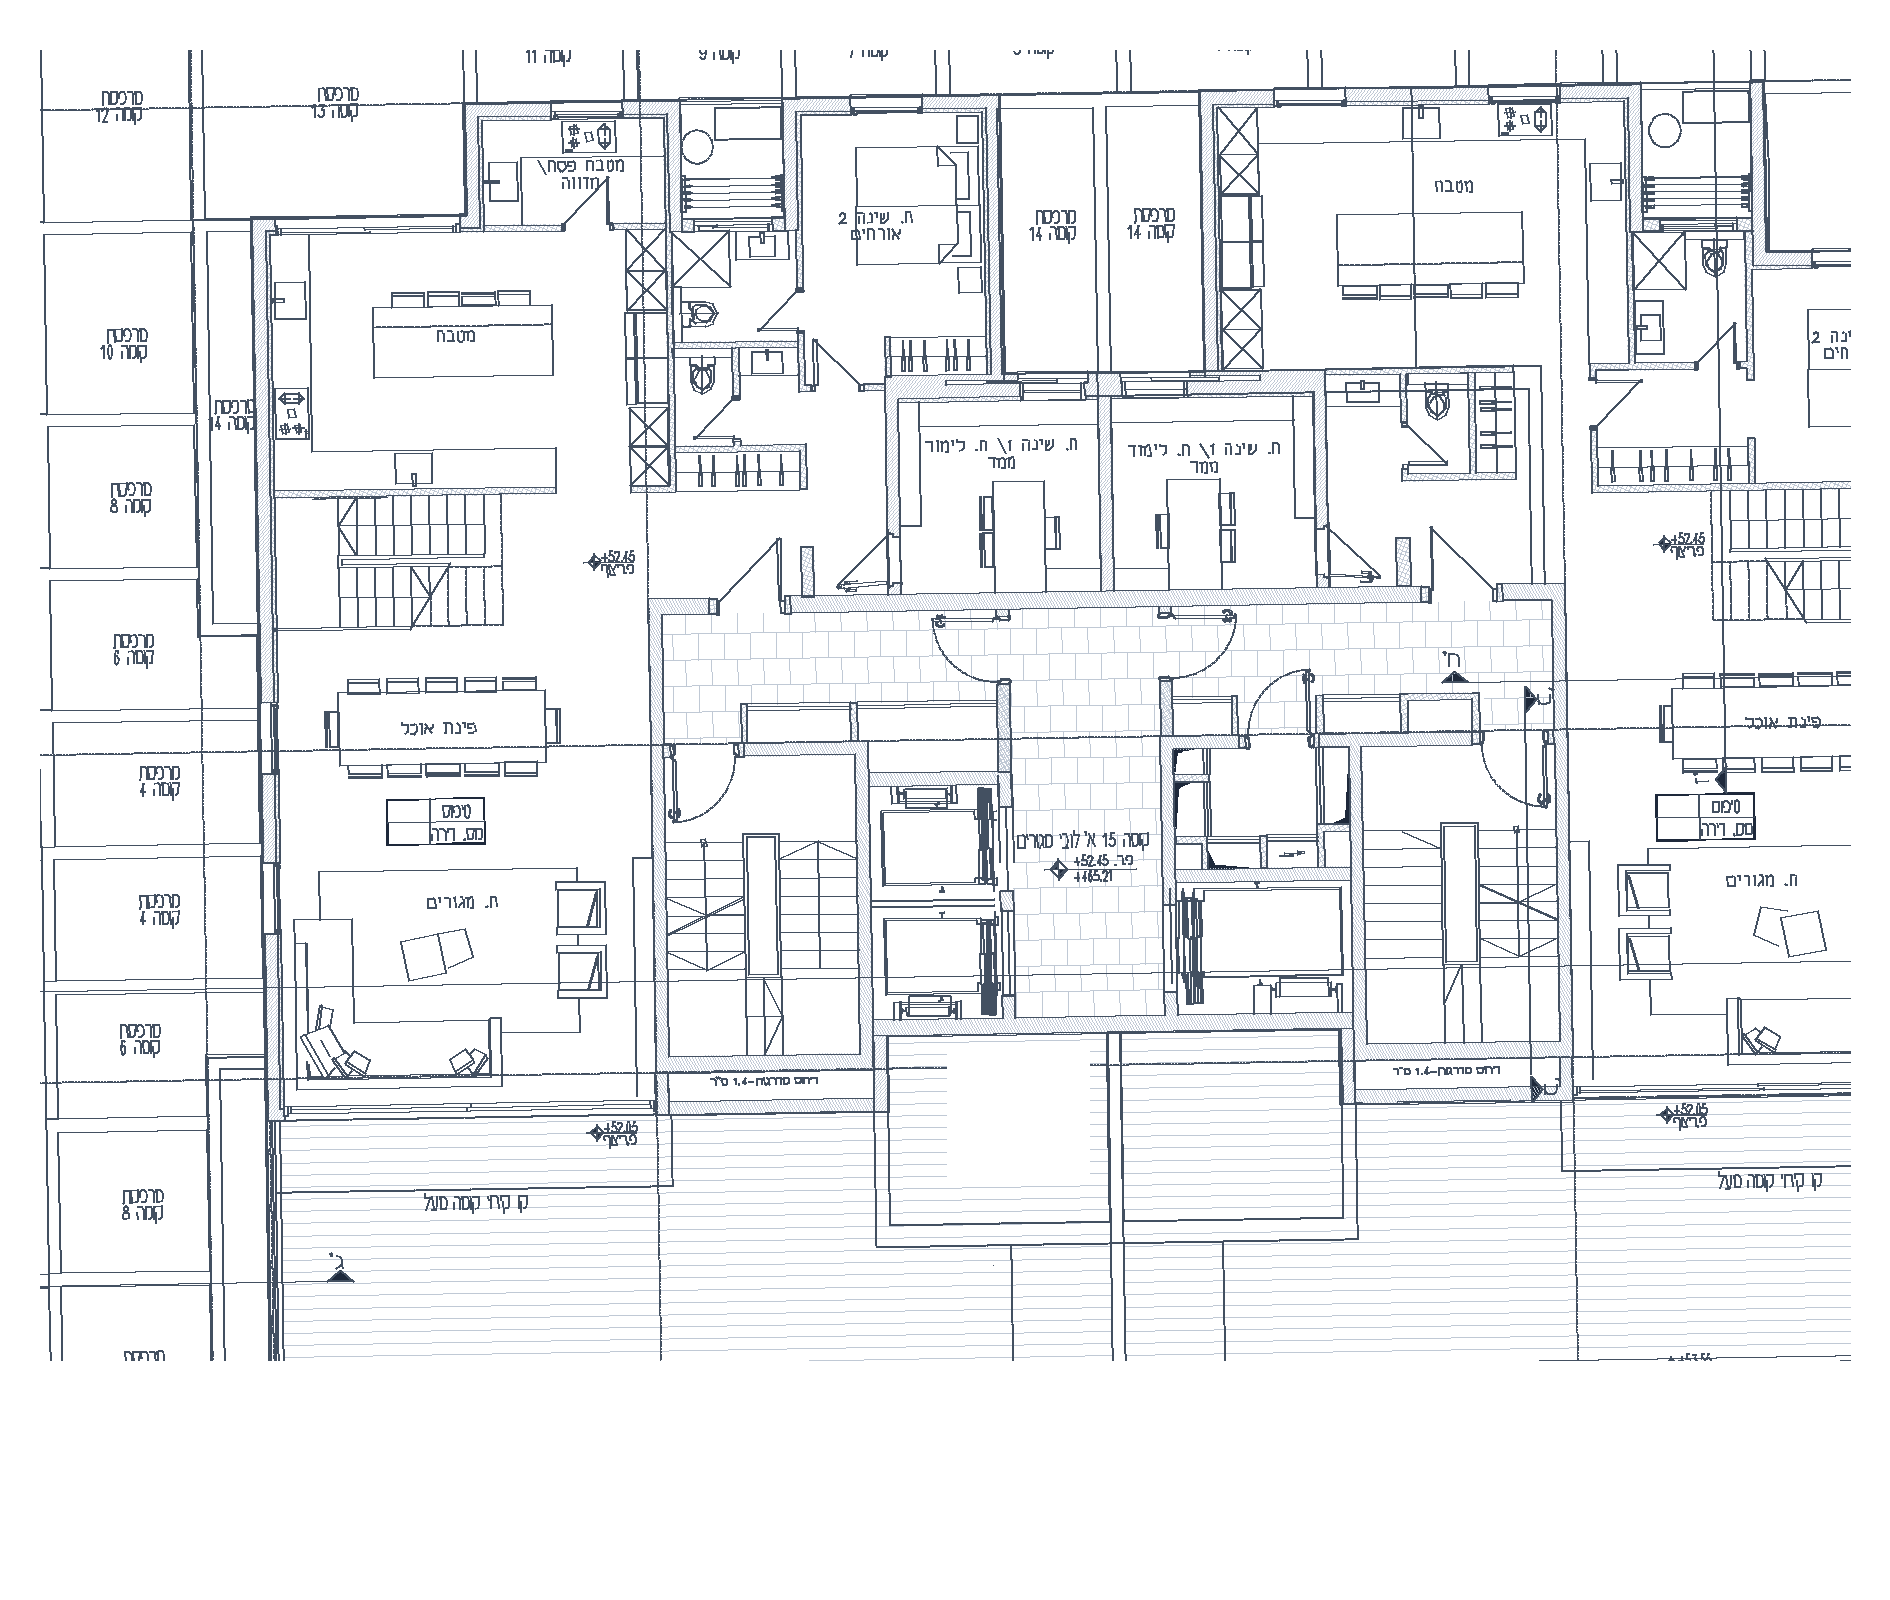
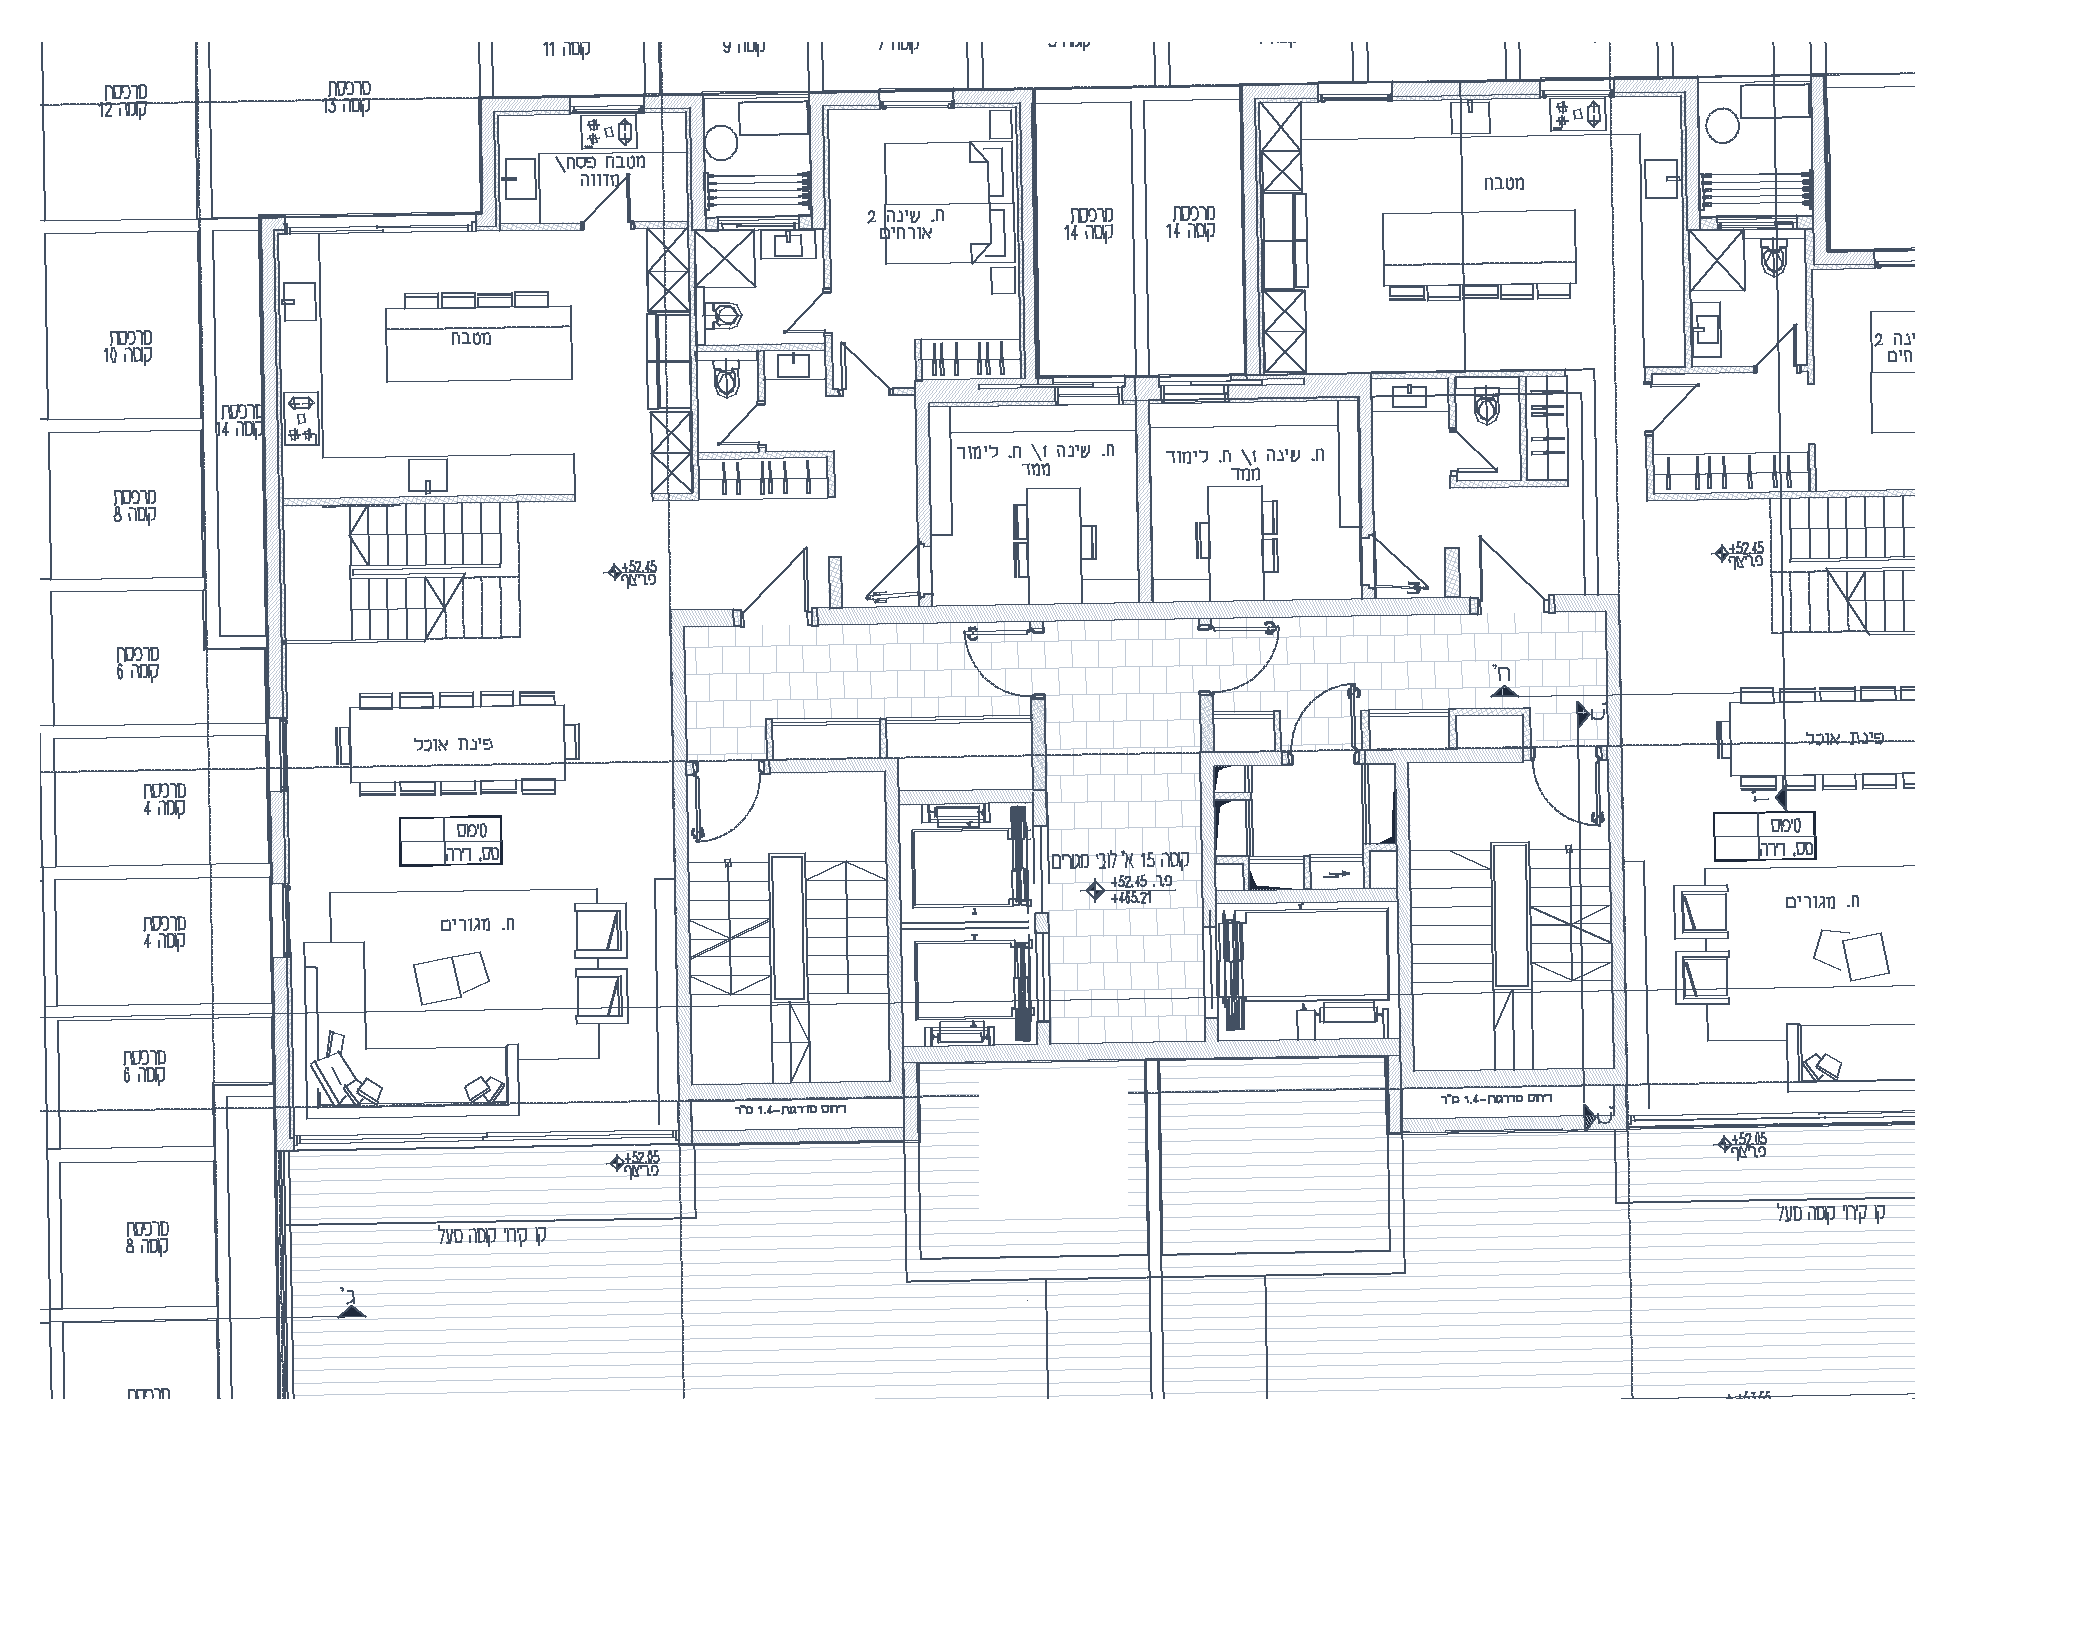
Video 19: penthouse stairs over the stairs below, floor number on the core, tidier page
- Floors 14/15 fitted by the stair and lift shaft onto the typical floor
  (K 1.171 / 1.185), outlines moved with them; drawn on a wider frame.
- Floor number at the stair core's middle on every floor.
- On All the hover card stands whole above the plans.
- The stage-count strip under the filters is gone.
- Picking a building is not a filter: no Clear.
docs/feedback: recording 19's doc; ledger rows 18-19. v14board: 35 checks.

Claude-Session: https://claude.ai/code/session_016jnZPBg7HPrjgM1hVmBpZR

Changed region(s): [[0.0, 0.0312, 0.9677, 0.875], [0.1561, 0.0312, 0.1873, 0.0938], [0.0624, 0.8438, 0.0937, 0.875]]

diff --git a/src/components/building/wolfsonPlan.ts b/src/components/building/wolfsonPlan.ts
@@ -36,20 +36,32 @@ export const SHAPES: Record<ShapeKey, Pt[]> = {
   // vectors are drawn into the plan's units — the stairs land on the typical
   // floor's stairs (1.145 plan units per sheet half-point). Floor 15 is set
   // back: below the core it is terrace.
-  PL14: [[100,45],[553,45],[553,290],[320,290],[320,520],[553,520],[553,640],[505,640],[505,760],[100,760]],
-  PR14: [[553,45],[1005,45],[1005,760],[505,760],[505,640],[553,640],[553,520],[780,520],[780,290],[553,290]],
-  PL15: [[100,45],[553,45],[553,290],[320,290],[320,520],[553,520],[553,700],[100,700]],
-  PR15: [[553,45],[1005,45],[1005,700],[553,700],[553,610],[625,610],[625,545],[553,545],[553,520],[780,520],[780,290],[553,290]],
+  PL14: [[9,32],[472,32],[472,282],[234,282],[234,517],[472,517],[472,640],[423,640],[423,763],[9,763]],
+  PR14: [[472,32],[935,32],[935,763],[423,763],[423,640],[472,640],[472,517],[704,517],[704,282],[472,282]],
+  PL15: [[0,21],[469,21],[469,275],[228,275],[228,513],[469,513],[469,699],[0,699]],
+  PR15: [[469,21],[937,21],[937,699],[469,699],[469,606],[544,606],[544,539],[469,539],[469,513],[704,513],[704,275],[469,275]],
 };
 
 /** The penthouse floors' core, and each penthouse floor's own drawing. */
-export const CORE_PH: [number, number][] = [[320,290],[780,290],[780,520],[320,520]];
+/**
+ * The penthouse floors are fitted by their STAIRS and LIFTS onto the typical
+ * floor's (owner, video 2026-11-03: "this is the staircase … here the layout
+ * of that is different") — one shaft through the building. Their drawings are
+ * drawn on a wider frame (PH_BOX), since the set-back floors stand further out
+ * on one side.
+ */
+export const PH_BOX = { x: -20, y: 0, w: 1045, h: 820 };
+export const CORE_PH14: [number, number][] = [[234,282],[704,282],[704,517],[234,517]];
+export const CORE_PH15: [number, number][] = [[228,275],[704,275],[704,513],[228,513]];
+export const CORE_PH: [number, number][] = CORE_PH14;
+/** The floor number stands in the middle of the stair core, on every floor. */
+export const FLOOR_NO_AT: [number, number] = [551, 444];
 export const PH_DRAWING: Record<string, string> = { PL14: '/building/wolfson-ph14.png', PR14: '/building/wolfson-ph14.png', PL15: '/building/wolfson-ph15.png', PR15: '/building/wolfson-ph15.png' };
 export function isPenthouseShape(k: ShapeKey): boolean { return k.startsWith('P'); }
 
 /** Where an apartment's number sits — inside its biggest room (the living wing). */
 export const LABEL_AT: Record<ShapeKey, Pt> = {
-  A: [178, 215], B: [930, 228], C2: [178, 640], C1: [930, 640], WL: [180, 480], WR: [925, 480], PL14: [235, 640], PR14: [870, 640], PL15: [235, 610], PR15: [870, 620],
+  A: [178, 215], B: [930, 228], C2: [178, 640], C1: [930, 640], WL: [180, 480], WR: [925, 480], PL14: [150, 640], PR14: [800, 640], PL15: [150, 610], PR15: [800, 620],
 };
 
 /** The core: the corridor band, two stairwells and the lifts. */

diff --git a/src/pages/ProjectDiagramPage.tsx b/src/pages/ProjectDiagramPage.tsx
@@ -291,7 +291,8 @@ export function ProjectDiagramPage() {
     setSelectedBuilding('all');
   }
 
-  const hasFilters = activeStageIds.length > 0 || classFilter !== 'all' || !!tipusFilter || searchQuery || selectedBuilding !== 'all';
+  // Picking a building is where you look, not a filter (owner, video 2026-11-03: "when I filter a building … this pops up … unnecessary").
+  const hasFilters = activeStageIds.length > 0 || classFilter !== 'all' || !!tipusFilter || searchQuery;
 
   function exitBulkMode() {
     setBulkMode(false);
@@ -373,10 +374,6 @@ export function ProjectDiagramPage() {
     setToast({ msg, type });
   }
 
-  const stageStats = sortedStages.map(s => ({
-    stage: s,
-    count: apartments.filter(a => a.currentStageId === s.id).length,
-  }));
   // Only real units count — blank placeholder slots are not apartments
   const countable = apartments.filter(isCountableApartment);
   const noStage = countable.filter(a => !a.currentStageId).length;
@@ -662,24 +659,8 @@ export function ProjectDiagramPage() {
 
         </div>
 
-        {/* Stage progress mini bar — wide screens only (below 900 the counts
-            live inside the stage bar); hidden on print */}
-        <div className="hidden diag:flex bg-gray-50 border-b border-gray-200 px-5 py-2 items-center gap-3 overflow-x-auto flex-shrink-0 print:hidden">
-          {stageStats.map(({ stage, count }) => (
-            count > 0 && (
-              <div key={stage.id} className="flex items-center gap-1.5 flex-shrink-0">
-                <span className="w-2.5 h-2.5 rounded-full" style={{ backgroundColor: stage.color }} />
-                <span className="text-xs text-gray-600 font-medium">{count}</span>
-              </div>
-            )
-          ))}
-          {noStage > 0 && (
-            <div className="flex items-center gap-1.5 flex-shrink-0">
-              <span className="w-2.5 h-2.5 rounded-full bg-gray-300" />
-              <span className="text-xs text-gray-500">{noStage}</span>
-            </div>
-          )}
-        </div>
+        {/* The coloured stage-count strip that stood here is gone (owner,
+            video 2026-11-03: "get rid of this whole bar … unnecessary"). */}
 
         {/* Main diagram */}
         <div className="short-scroll-body flex-1 overflow-auto scrollbar-thin bg-gray-100 print:overflow-visible print:bg-white">

diff --git a/src/components/building/BuildingView.tsx b/src/components/building/BuildingView.tsx
@@ -17,7 +17,7 @@ import React, { useCallback, useEffect, useMemo, useRef, useState } from 'react'
 import type { Apartment, Stage } from '../../types';
 import { realName } from '../../data/aptSale';
 import {
-  CARD_CORNER, CORE, CORE_PH, PH_DRAWING, isPenthouseShape, LABEL_AT, LEVEL_FLOORS, STRIP, zoneFor, PLAN_BOX, SHAPES, pathOf, shapesOf, stripFor, type ShapeKey, type LowerLevel,
+  CARD_CORNER, CORE, CORE_PH14, CORE_PH15, PH_BOX, FLOOR_NO_AT, PH_DRAWING, isPenthouseShape, LABEL_AT, LEVEL_FLOORS, STRIP, zoneFor, PLAN_BOX, SHAPES, pathOf, shapesOf, stripFor, type ShapeKey, type LowerLevel,
 } from './wolfsonPlan';
 import './buildingView.css';
 
@@ -113,7 +113,8 @@ function phDrawing(row: FloorRow): string | undefined {
   return undefined;
 }
 function coreOf(row: FloorRow): [number, number][] {
-  return phDrawing(row) ? CORE_PH : CORE.outline;
+  const d = phDrawing(row);
+  return d ? (d.includes('ph15') ? CORE_PH15 : CORE_PH14) : CORE.outline;
 }
 
 /** The floor's own outline: a typical floor is all four flats; the set-back top floor only what its flats cover. */
@@ -404,7 +405,7 @@ export default function BuildingView({ apartments, stages, onOpen, words, initia
                 })}
                 {phDrawing(row) && (
                   <g className="bv-interior" pointerEvents="none">
-                    <image href={phDrawing(row)} x={PLAN_BOX.x} y={PLAN_BOX.y} width={PLAN_BOX.w} height={PLAN_BOX.h} preserveAspectRatio="none" />
+                    <image href={phDrawing(row)} x={PH_BOX.x} y={PH_BOX.y} width={PH_BOX.w} height={PH_BOX.h} preserveAspectRatio="none" />
                   </g>
                 )}
                 {interiorSrc && isTypical(row) && (
@@ -414,7 +415,7 @@ export default function BuildingView({ apartments, stages, onOpen, words, initia
                       clipPath={`url(#bv-clip-${row.floor})`} preserveAspectRatio="none" />
                   </g>
                 )}
-                <text x={555} y={470} className="bv-floor-no">{lab(row.floor)}</text>
+                <text x={FLOOR_NO_AT[0]} y={FLOOR_NO_AT[1]} className="bv-floor-no">{lab(row.floor)}</text>
               </svg>
               )}
             </div>

diff --git a/src/components/building/buildingView.css b/src/components/building/buildingView.css
@@ -120,8 +120,9 @@
 .bv-compact .bv-card { width: 200px; }
 .bv-title { position: absolute; top: 12px; left: 50%; transform: translateX(-50%); z-index: 3;
   font-size: 15px; font-weight: 700; color: #1e3a5f; background: #ffffff; border: 1px solid #e5e7eb; border-radius: 8px; padding: 3px 12px; }
-.bv-compact .bv-card { top: auto; bottom: 14px; left: 50%; transform: translateX(-50%); }
-.bv-compact .bv-card[data-on='1'] { transform: translateX(-50%) translateY(-2px); }
+.bv-compact .bv-card { top: 52px; bottom: auto; left: 50%; transform: translateX(-50%); z-index: 20; pointer-events: none;
+  box-shadow: 0 12px 30px rgba(30,58,95,.22); }
+.bv-compact .bv-card[data-on='1'] { transform: translateX(-50%); }
 
 /* The shared levels: the whole floor faint, this tower's slice clear. */
 .bv-lower { overflow: visible; }

diff --git a/src/data/whatsNew.tsx b/src/data/whatsNew.tsx
@@ -35,6 +35,11 @@ export const WHATS_NEW: WhatsNewEntry[] = [
     title: 'Send a plan as a PDF',
     items: [
       {
+        title: 'Building view, tidier',
+        body: 'The penthouse floors\' stairs now stand right over the stairs below; the floor number sits in the middle of the stairs; on All the hover card shows whole above the plans; the coloured count strip is gone; picking a building no longer shows Clear.',
+        demo: 'sparkle',
+      },
+      {
         title: 'Share',
         body: 'Above the plan, next to Open in Sketcher, press Share: your phone\'s or computer\'s share menu opens with the plan as a PDF file, ready for WhatsApp, mail or anything else. The file itself is sent, not a link.',
         demo: 'tap',

diff --git a/docs/feedback/2026-11-03-132739.md b/docs/feedback/2026-11-03-132739.md
@@ -1,0 +1,28 @@
+# Recording 2026-11-03 132739 (the building view)
+
+Drive id `1gj_TTcLmNcarXqMg1BUlBSYExiCUHM4I` · 1:22 · 1920×1076 · at the top of the folder.
+
+## Sentences
+| S | Time | His words | Kind | On screen |
+|---|------|-----------|------|-----------|
+| S1 | 0:00 | "Okay, so you know, I can decide that it's 7 and 7 and a half." | ? | floor 15, three buildings. Unclear; asked. |
+| S2 | 0:06 | "This is the staircase." | CONTEXT | pointer on floor 13's stair core |
+| S3 | 0:10 | "Here, the layout of that is different." | ASK | floor 15: its stairs sit away from the stairs below |
+| S4 | 0:19 | "And also center the number of the room in the middle of the stairs." | ASK | the floor number |
+| S5 | 0:24 | "The staircase is, and…" | CONTEXT | |
+| S6 | 0:48 | "And then when I hover, it should hover above these as well." | ASK | hover on 52 (All): the card came up at the bottom, cut off |
+| S7 | 0:55 | "Also, we need to get rid of this bar, right over here, this whole bar. Unnecessary." | ASK | pointer along the coloured stage-count strip (● 60 ● 20 …) |
+| S8 | 1:02 | "And also when I filter a building, for some reason this filter pops up." | ASK | picked 3: "Clear" appeared |
+| S9 | 1:17 | "And this is unnecessary here. I don't know why this came here." | ASK (same as S8) | pointer on Clear |
+
+## Asks
+| # | Sentences | The one change | Status |
+|---|-----------|----------------|--------|
+| 1 | S2, S3 | The penthouse floors' stairs and lifts stand right over the stairs below (the drawing fitted by the shaft, not the outer wall) | Built (preview) |
+| 2 | S4 | The floor number stands in the middle of the stair core on every floor | Built (preview) |
+| 3 | S6 | On All, the hover card stands whole, above the plans, under the building's name | Built (preview) |
+| 4 | S7 | The coloured stage-count strip under the filters is gone | Built (preview) |
+| 5 | S8, S9 | Picking a building is not a filter: no "Clear" | Built (preview) |
+
+Open: S1 ("7 and 7 and a half") — asked.
+Bug seen, not said: on floor 15 the penthouse slab now stands ~9% further out on one side than the floors below — the engineers' sheet puts the core off-centre where the architect's typical floor has it centred; the stairs win.

diff --git a/docs/feedback/LEDGER.md b/docs/feedback/LEDGER.md
@@ -28,7 +28,9 @@ ask built or answered) · **not this app** (a recording of another project — r
 | 16 | Recording 2026-10-26 094647.mp4 (151.1 MB, 1920×1032) — in **Not processed** | `1aU3Sbyi88pKC-LvzYcna3PFO-mjv8nTS` | 4:45 | done | [2026-10-26-094647.md](2026-10-26-094647.md) |
 | 17 | Recording 2026-10-28 102505.mp4 (266.3 MB, 1920×1074) — in **Not processed** | `1244pyAr28lBecO_wlVssUuL9GFavzw0X` | 8:28 | done (built 2026-10-28 on his "build it"; tipus map approved) | [2026-10-28-102505.md](2026-10-28-102505.md) |
 
-Folder last listed: 2026-10-28 — 14 recordings at the top, **Processed** empty, recordings 15, 16 and 17 in **Not processed**. All 17 are done and belong in Processed.
+| 18 | Screen Recording 2026-11-02 155444.mp4 (186.7 MB) | `1oBE6kqCWX2lOYaRplaJeuuwXAJzSStgV` | 4:35 | done (building view, built and live 2026-11-03) | (worked in chat; the artifact) |
+| 19 | Recording 2026-11-03 132739.mp4 (57.8 MB) | `1gj_TTcLmNcarXqMg1BUlBSYExiCUHM4I` | 1:22 | open (built on preview; S1 asked) | [2026-11-03-132739.md](2026-11-03-132739.md) |
+Folder last listed: 2026-11-03 — recordings 18 and 19 at the top. 1–18 are done and belong in Processed.
 
 ## The folder's two subfolders (owner, 2026-10-18)
 After every new video a helper sorts the folder: **Processed**
